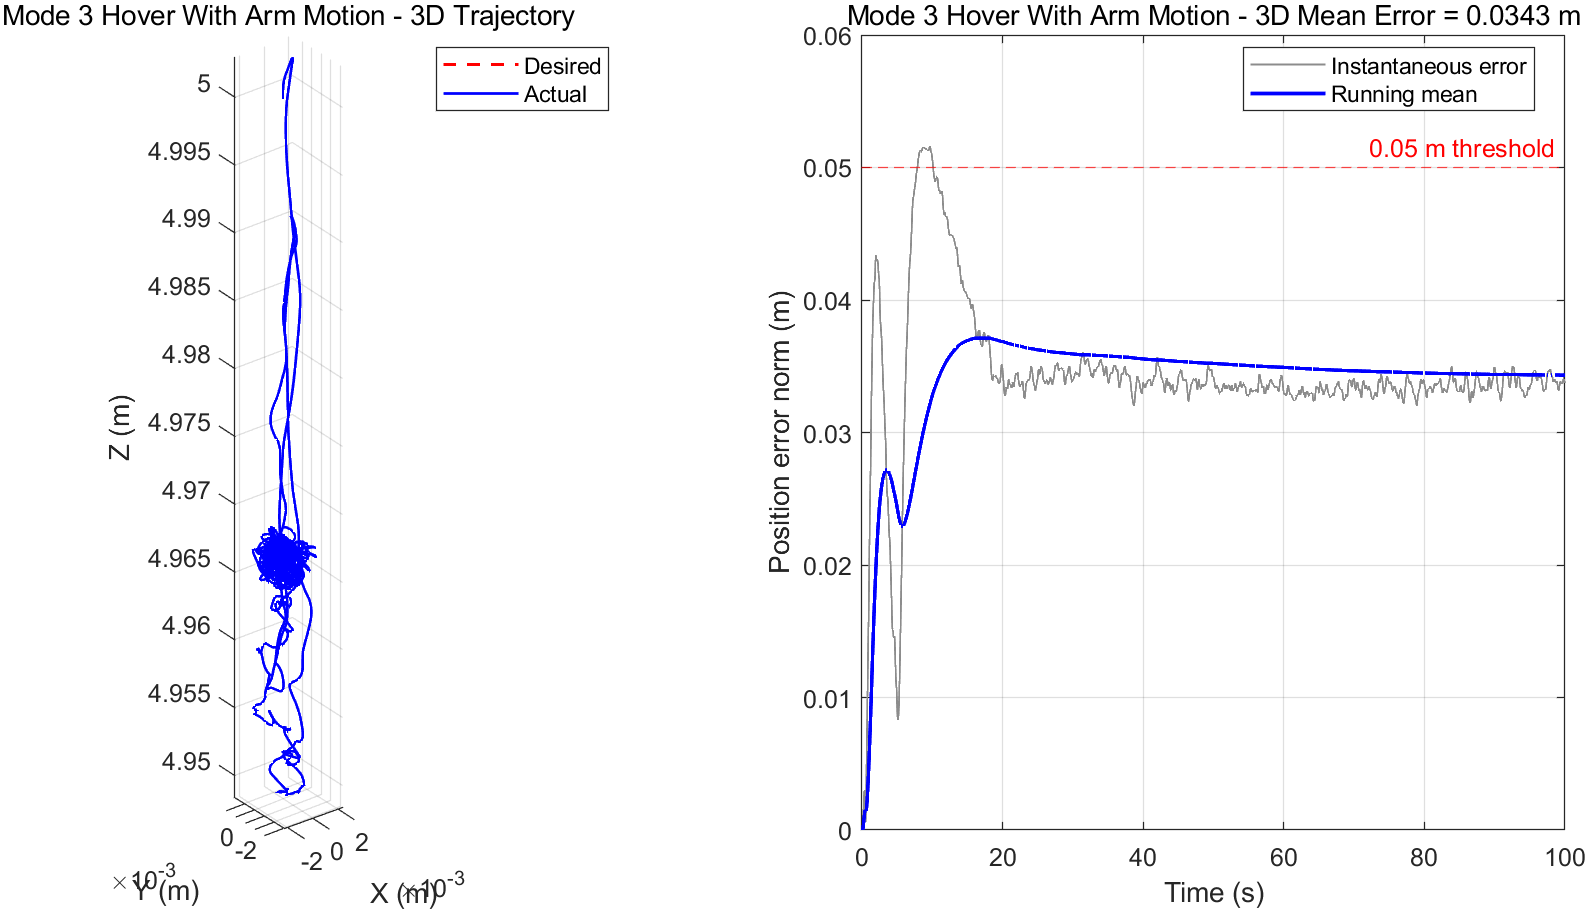
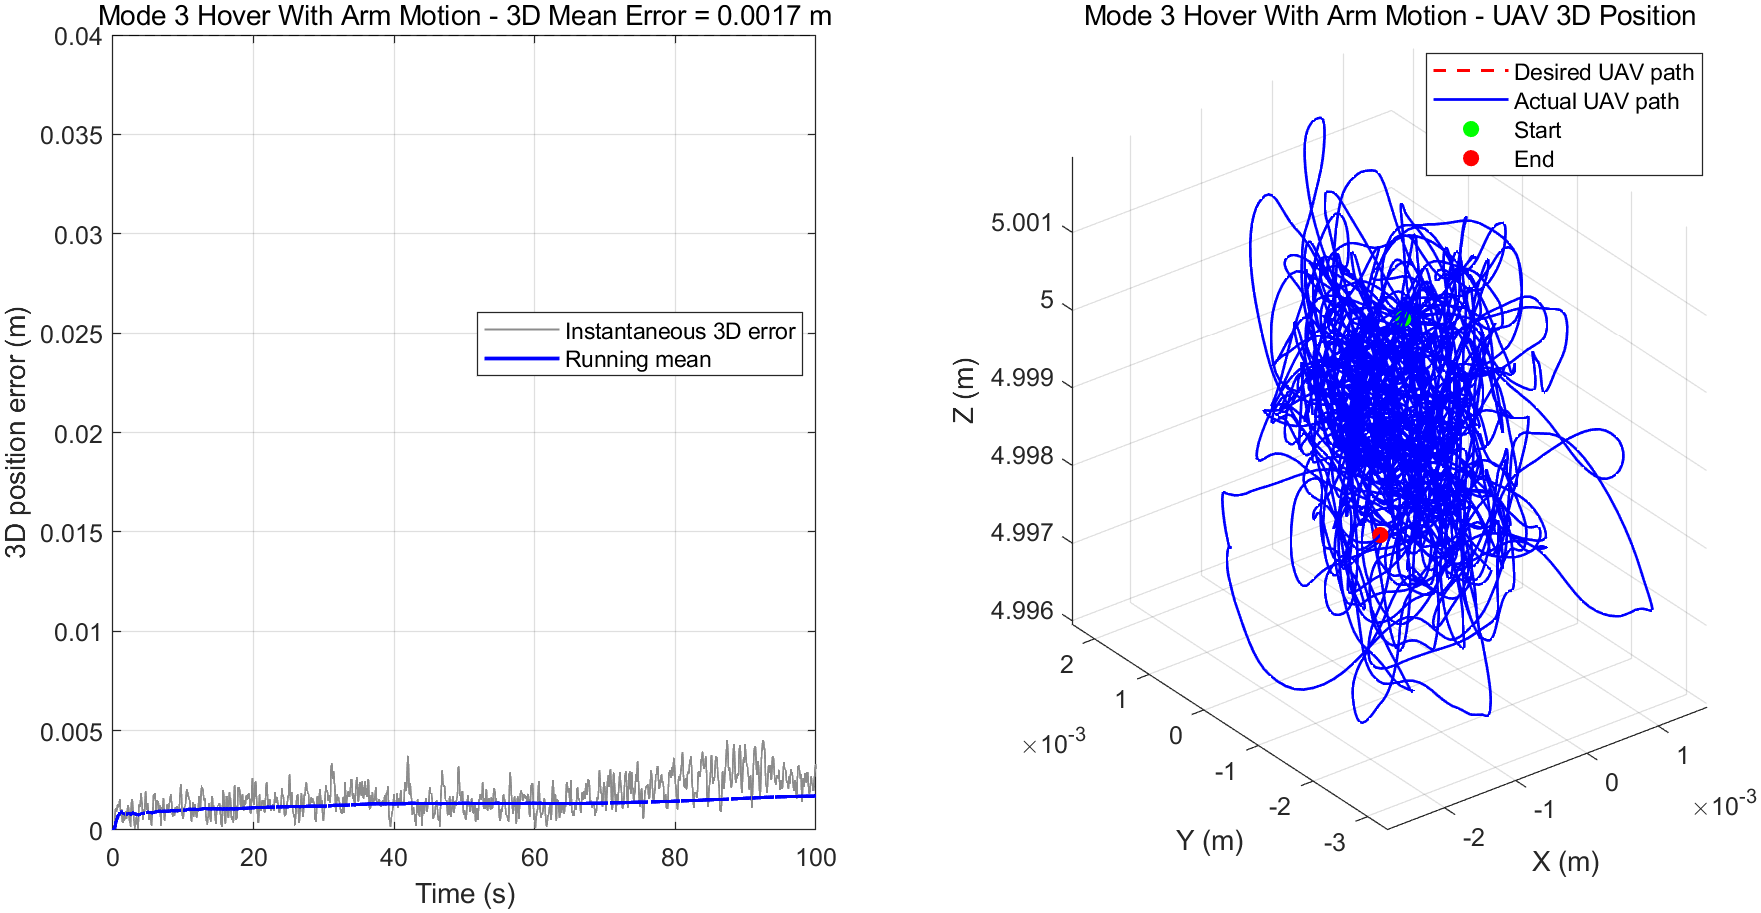
Update validation report figures

diff --git a/README.md b/README.md
@@ -6,13 +6,20 @@ This repository contains a MATLAB/Simulink simulation project for an aerial mani
 
 The project models and evaluates an aerial manipulator with coupled quadrotor and arm dynamics. The simulation workflow is built around `AerialManipulatorSystem.slx` and MATLAB scripts that run repeatable experiment scenarios, collect logged signals, and compute tracking metrics.
 
-The current tuning target is to reduce the average spatial position tracking error:
+The current strict validation target is evaluated per translation axis:
 
 ```matlab
-mean(vecnorm(p_actual - p_desired, 2, 2))
+mean(abs(p_actual - p_desired), 1) < [0.02 0.02 0.02]
+max(abs(p_actual - p_desired), [], 1) < [0.04 0.04 0.04]
 ```
 
-The closed-loop autotuning goal is to drive both mode 3 and mode 5 fresh simulation runs below `0.05 m` average position error while preserving stability and arm tracking guardrails.
+The ESO position-state tracking guardrail is:
+
+```matlab
+max(abs(p_hat - p_true), [], 1) < [0.01 0.01 0.01]
+```
+
+The logged `h_v_true` / `h_v_est` channel is a disturbance-acceleration estimate in `m/s^2`, not a meter-valued position error.
 
 ## Repository Contents
 
@@ -55,13 +62,20 @@ summary = run_aerialmanipulator_tuning();
 
 ## Validation Scenarios
 
-The controller is validated with two representative scenarios. Both scenarios use the same primary metric:
+The controller is validated with two representative scenarios. Both scenarios use the same strict translational metrics:
 
 ```matlab
-position_mean_error_m = mean(vecnorm(p_actual - p_desired, 2, 2))
+position_axis_mean = mean(abs(p_actual - p_desired), 1)
+position_axis_max = max(abs(p_actual - p_desired), [], 1)
 ```
 
-The acceptance target is `position_mean_error_m < 0.05 m`. Arm tracking is monitored with a guardrail of `arm_axis_max < 0.10 rad`, and divergent runs are rejected.
+The acceptance target is every axis mean `< 0.02 m`, every axis max `< 0.04 m`, ESO position-state max `< 0.01 m`, `arm_axis_max < 0.10 rad`, and no divergent run.
+
+## Dynamics Model Audit
+
+The quadrotor translational and rotational dynamics in `sfunc_quadrotor_dynamics.m` follow the paper-level structure: rigid-body position/attitude dynamics plus manipulator coupling terms derived from center-of-mass motion and arm inertia. The ESO bug found during strict validation was not in the plant force equation; it was in `sfunc_position_eso.m`, where the model fed a world-frame force vector in Newtons directly into an ESO state equation that expected acceleration. The ESO now converts `f_world` to nominal acceleration with `f_world / (m_B + m_M) - g` and uses the disturbance compensation sign consistent with the position controller.
+
+The Delta arm dynamics in `sfunc_arm_dynamics.m` are not an exact reproduction of the paper object. They contain project-specific simplified/empirical terms that the paper does not specify: a diagonal-dominant arm mass matrix, heuristic Coriolis/damping terms, base-coupling saturation, acceleration saturation, measurement noise/delay, and fallback simplified dynamics. Treat this as a simulation plant for controller validation, not as a first-principles paper-faithful Delta-arm model.
 
 ### Mode 3: Hover With Arm Motion
 
@@ -84,7 +98,9 @@ The current validation does not enable delay jitter, packet dropout, wind gusts,
 
 Final fresh validation result:
 
-- Mean 3D position error: `0.034330 m`.
+- Axis mean position error: `[0.000588, 0.000749, 0.001213] m`.
+- Axis max position error: `[0.002810, 0.003369, 0.004052] m`.
+- ESO position max error: `[0.003841, 0.003631, 0.004569] m`.
 - Maximum arm tracking error norm: `0.067859 rad`.
 - Divergence flag: `false`.
 
@@ -95,6 +111,7 @@ Figures:
 - ![Mode 3 arm tracking](figures/mode3_arm_tracking.png)
 - ![Mode 3 3D mean position error](figures/mode3_uav_3d_mean_error.png)
 - ![Mode 3 ESO disturbance estimate](figures/mode3_eso_disturbance_estimate.png)
+- ![Mode 3 ESO disturbance estimation error](figures/mode3_eso_disturbance_error.png)
 
 ### Mode 5: Square Tracking With Arm Motion
 
@@ -106,7 +123,9 @@ The same empirical measurement perturbations are used as in mode 3: measurement 
 
 Final fresh validation result:
 
-- Mean 3D position error: `0.034492 m`.
+- Axis mean position error: `[0.001006, 0.001538, 0.000626] m`.
+- Axis max position error: `[0.006264, 0.006796, 0.002616] m`.
+- ESO position max error: `[0.005003, 0.005467, 0.003485] m`.
 - Maximum arm tracking error norm: `0.068300 rad`.
 - Divergence flag: `false`.
 
@@ -117,6 +136,7 @@ Figures:
 - ![Mode 5 arm tracking](figures/mode5_arm_tracking.png)
 - ![Mode 5 3D mean position error](figures/mode5_uav_3d_mean_error.png)
 - ![Mode 5 ESO disturbance estimate](figures/mode5_eso_disturbance_estimate.png)
+- ![Mode 5 ESO disturbance estimation error](figures/mode5_eso_disturbance_error.png)
 
 The PSD figures show the spectrum of measurement residuals and delay-induced residuals. They are diagnostic plots for the configured sensor model; the simulation does not currently log physically separated raw noise and pure delay channels.
 
